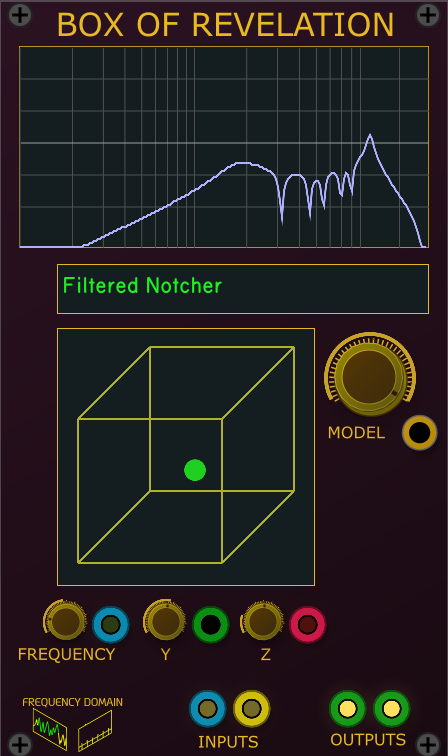
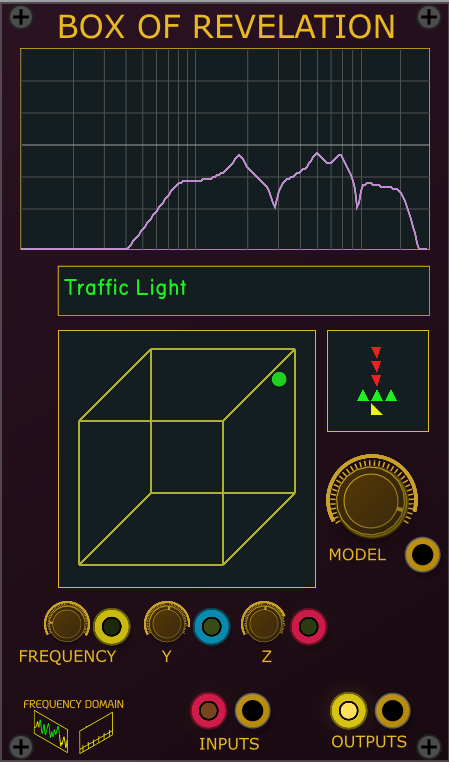
1.8.4 Release

diff --git a/README.md b/README.md
@@ -35,6 +35,10 @@ Frequency domain based VCV Plugins
 - Each vertex of the cube represents the parameters of those 7 filters
 - By navigating through the cube using the Frequency, X and Y paramters, you can morph between these parameters
 - You can edit the json file and create your own cubes - there is a read me file in the preset directory with instructions.
+- There can be multiple cube files and you can load each module with diffrent files if you want.
+- Filters can have non-linear properties which adds a drive parameter, the higher the drive, the more red the frequency response display
+- Filter Topology Display shows the serial/parallel configuration of the (up to) 7 filters, and what type they are (LP,HP,BP,NR)
+- A green filter is normal/linear. Yellow - non-liner state path, Orange - non-linear feebback path, Red - both state and feedback paths are non-linear
 - New cubes will be added :)
 
 ## Freudian Slip

diff --git a/CHANGELOG.md b/CHANGELOG.md
@@ -1,5 +1,9 @@
+### 1.8.4 (2020-09-24)
+- Added Non-Linear Filter Modes to BoR 
+- Added Filter Topology Display to BoR
+
 ### 1.8.3 (2020-09-14)
-- Added Harmonich level control to BoC
+- Added Harmonic level control to BoC
 
 ### 1.8.2 (2020-09-12)
 - Adjusted volume on some cube models, added a couple more
